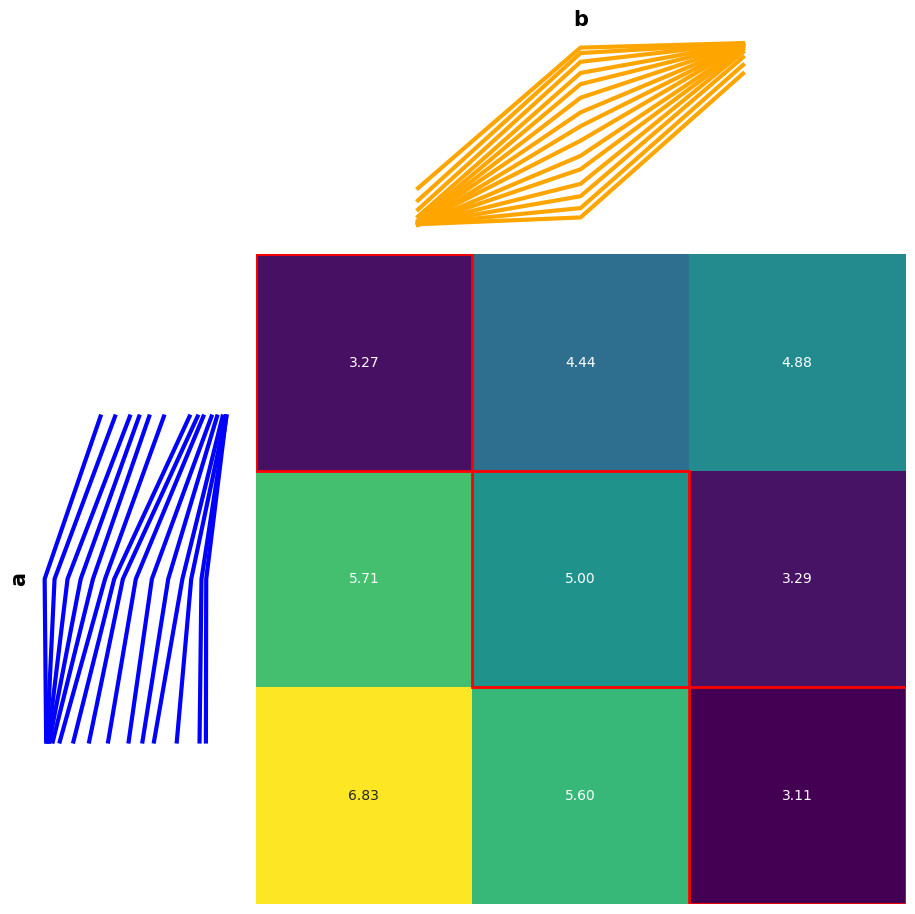
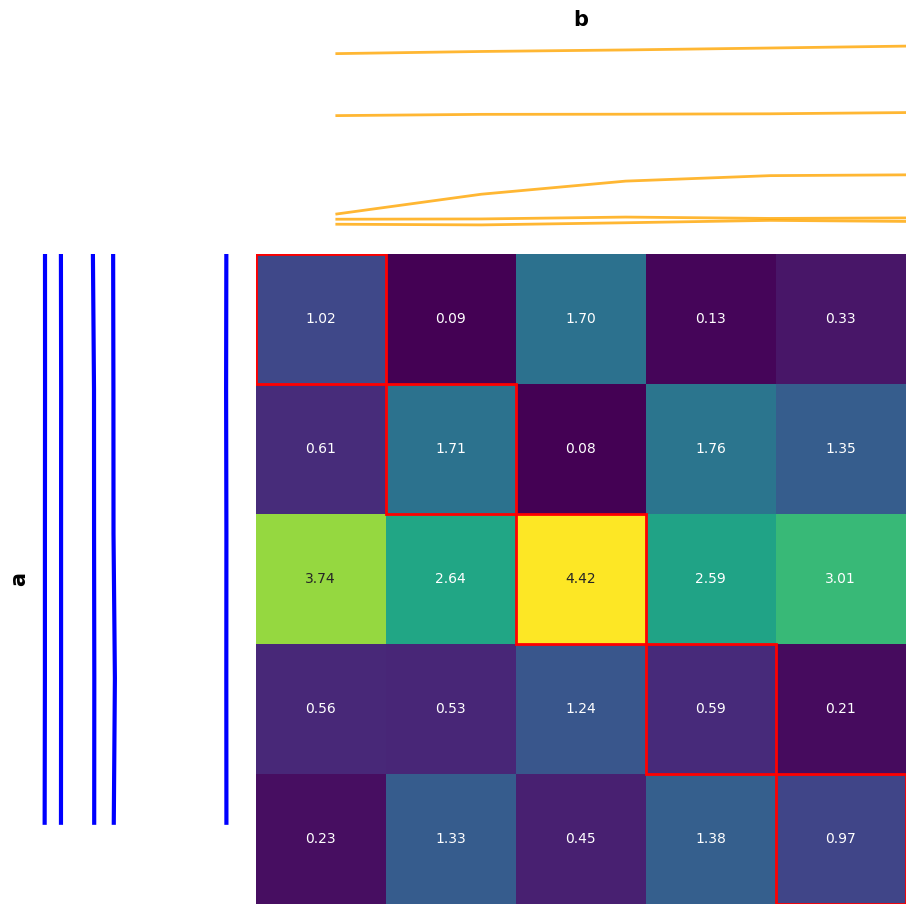
fixing pairwise_distance_matrix function

diff --git a/aeon/visualisation/distances/_pairwise_distance_matrix.py b/aeon/visualisation/distances/_pairwise_distance_matrix.py
@@ -39,7 +39,7 @@ def plot_pairwise_distance_matrix(
     import seaborn as sns
 
     plt.figure(1, figsize=(10, 10))
-    a_size = len(a)
+    a_size, ts_length = a.shape
 
     left, bottom = 0.01, 0.1
     w_ts = h_ts = 0.2
@@ -83,21 +83,29 @@ def plot_pairwise_distance_matrix(
     ax_gram.axis("off")
 
     # Plot the orange time series b.
-    ax_s_x.plot(
-        np.linspace(0.5, a_size - 1.5, a_size), b, "-", linewidth=3.0, color="orange"
-    )
+
+    for i in range(b.shape[0]):
+        ax_s_x.plot(
+            np.linspace(0.5, ts_length - 1.5, ts_length),
+            b[i],
+            linewidth=2.0,
+            color="orange",
+            alpha=0.8,
+        )
+
     ax_s_x.set_xlim((0, a_size - 1))
     ax_s_x.set_title(r"$\mathbf{b}$", fontsize=15)
     ax_s_x.axis("off")
 
     # Plot the blue time series a.
-    ax_s_y.plot(
-        -a[::-1],
-        np.linspace(0.5, a_size - 1.5, a_size),
-        "-",
-        linewidth=3.0,
-        color="blue",
-    )
+    for i in range(a.shape[0]):
+        ax_s_y.plot(
+            -a[i][::-1],
+            np.linspace(0.5, ts_length - 1.5, ts_length),
+            "-",
+            linewidth=3.0,
+            color="blue",
+        )
     ax_s_y.set_ylim((0, a_size - 1))
     ax_s_y.set_ylabel(r"$\mathbf{a}$", fontsize=15)
 
